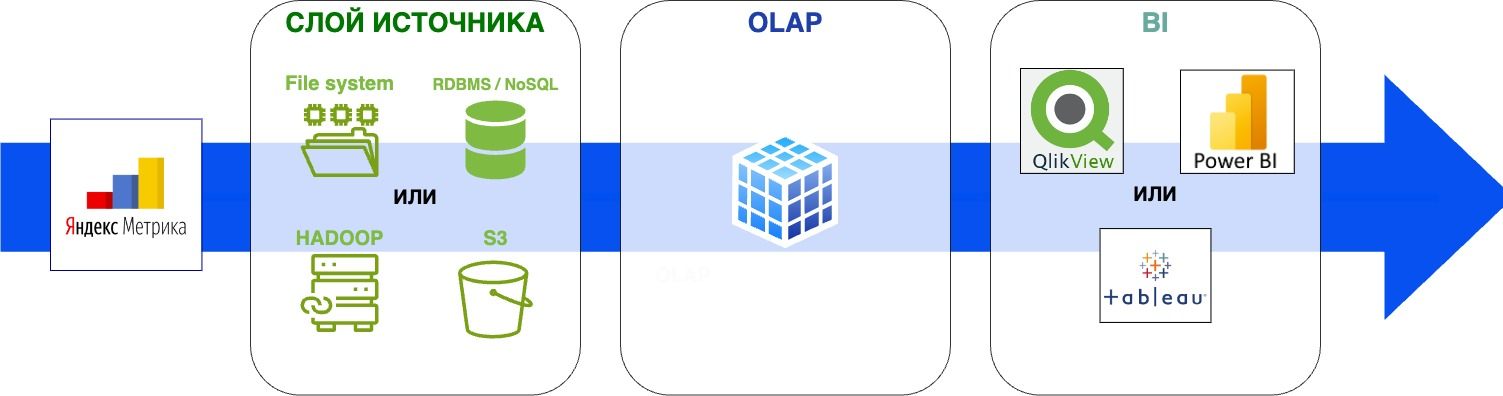
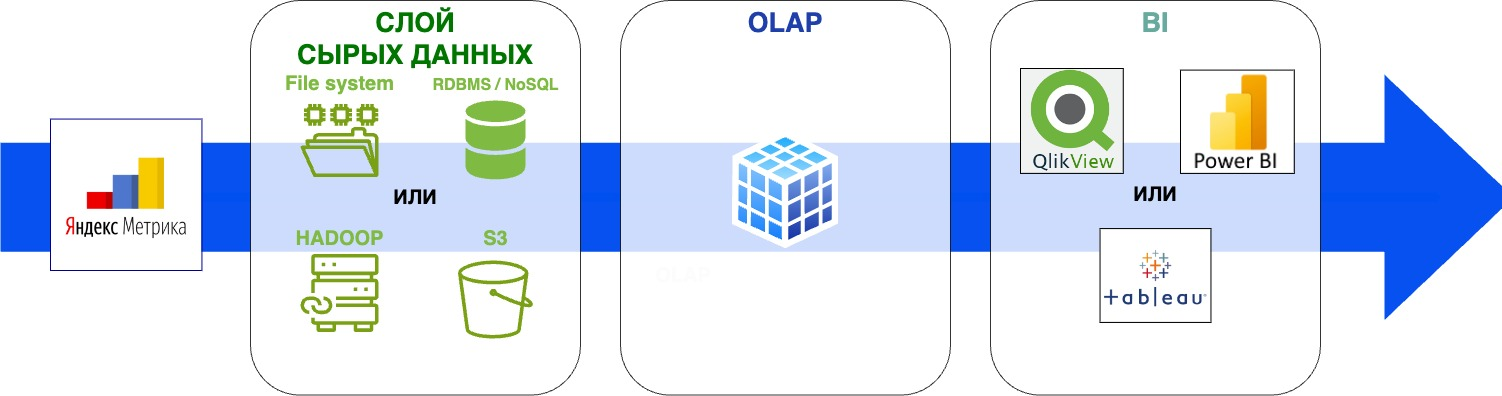
final commit

diff --git a/README.md b/README.md
@@ -151,7 +151,7 @@ https://yandex.ru/dev/metrika/doc/api2/logs/fields/visits.html
 
 Если такая реализация не возможна, то в общем случае необходимо предусмотреть: 
 
-**1. Cлой источника.** В зависимости от объема данных и типа решения это может быть файловая система сервера, распределенная система HADOOP, бессерверное хранилище типа S3  документоориентированная NoSQL  базы данных типа MongoDB. 
+**1. Cлой сырых данных.** В зависимости от объема данных и типа решения это может быть файловая система сервера, распределенная система HADOOP, бессерверное хранилище типа S3  документоориентированная NoSQL  базы данных типа MongoDB. 
 Также возможно использование традиционных СУБД типа Posgres, при этом потребуются дополнительные преобразования данных для загрузки в слой источника.
 
 
